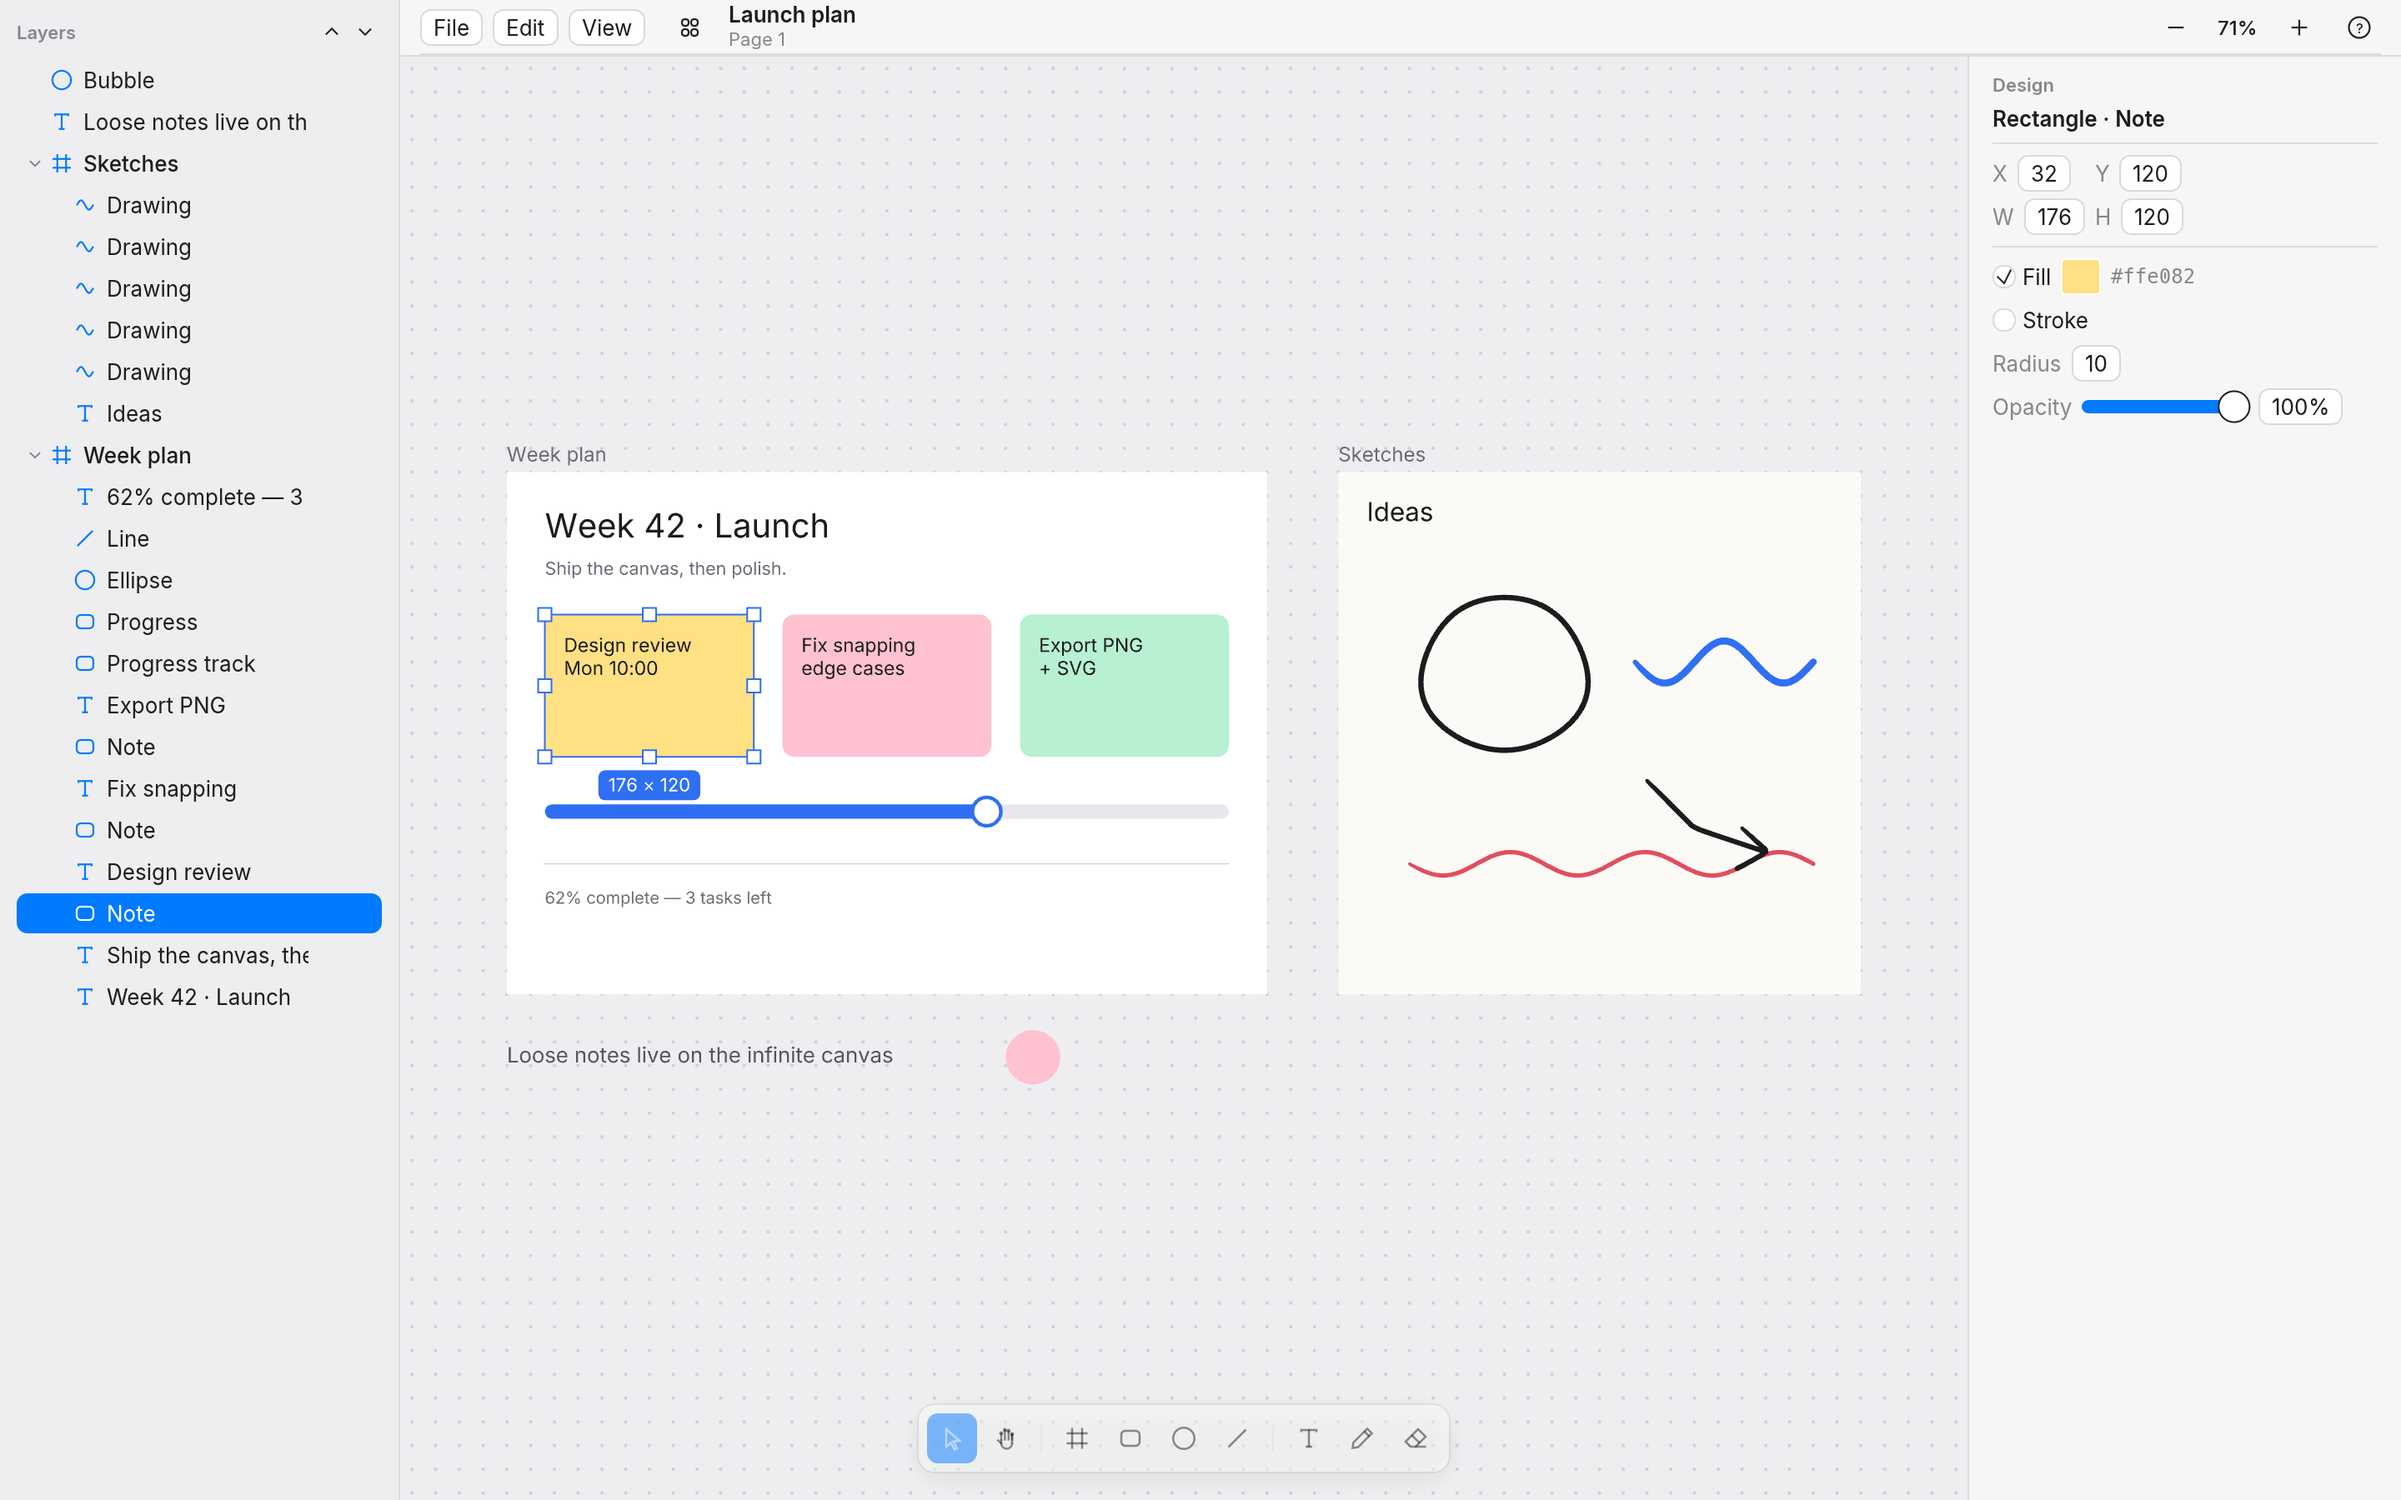
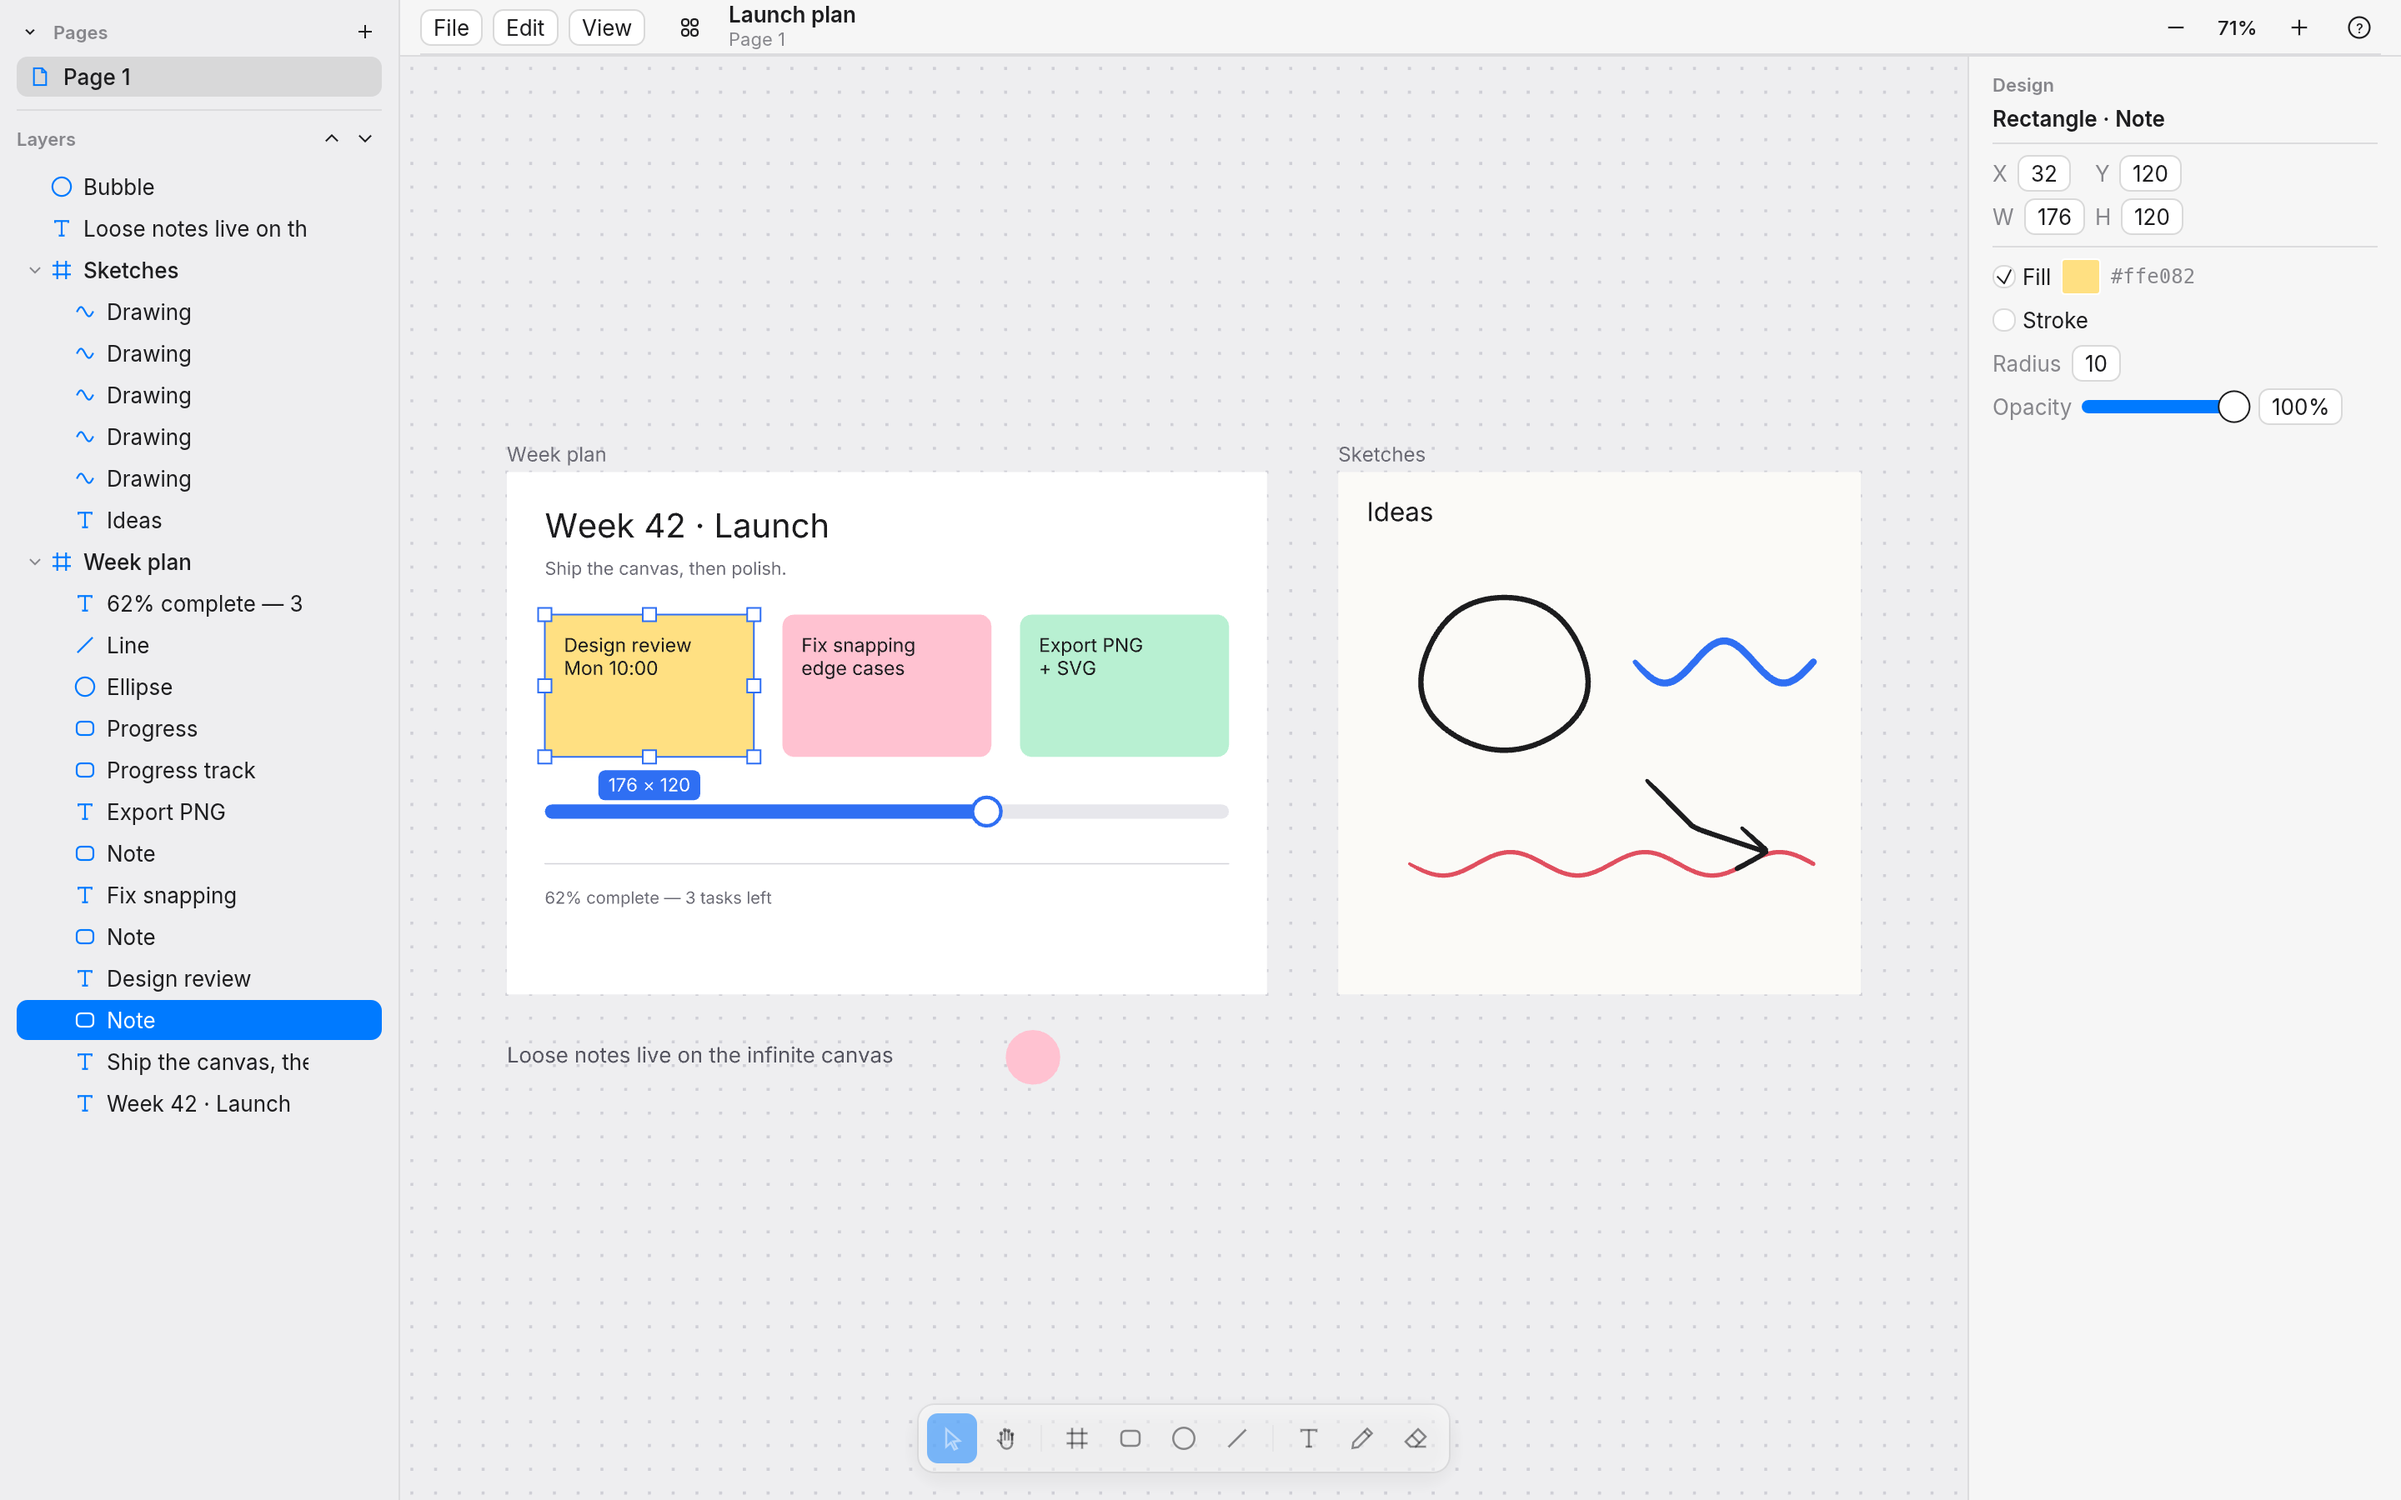
feat(pages): multiple pages per project with their own canvas, history and camera
Pages panel in the sidebar (add, switch, rename, duplicate, delete, drag-reorder),
per-page undo and view, paste on another page keeps positions.

Changed region(s): [[0.0, 0.0, 0.1562, 0.7467]]

diff --git a/src/ui/pages.rs b/src/ui/pages.rs
@@ -1,0 +1,172 @@
+//! The pages list at the top of the left sidebar (as in Figma): switch, add, rename,
+//! duplicate, delete and drag to reorder.
+
+use super::{UiState, section};
+use crate::editor::Editor;
+use crate::theme::{self, Icon};
+use egui::{Color32, RichText, Ui};
+
+#[derive(Default)]
+pub struct PagesUi {
+    pub collapsed: bool,
+    pub renaming: Option<(usize, String)>,
+    /// Row being dragged, and the index it would drop at.
+    drag: Option<(usize, usize)>,
+}
+
+const ROW_H: f32 = 24.0;
+
+pub fn panel(ui: &mut Ui, ed: &mut Editor, st: &mut UiState) {
+    let p = theme::pal(ui);
+    ui.horizontal(|ui| {
+        let chevron = if st.pages.collapsed {
+            Icon::ChevronRight
+        } else {
+            Icon::ChevronDown
+        };
+        if theme::icon_button(ui, chevron, 16.0, false).clicked() {
+            st.pages.collapsed = !st.pages.collapsed;
+        }
+        section(ui, "Pages");
+        if st.pages.collapsed {
+            ui.label(
+                RichText::new(ed.page_name())
+                    .size(theme::SECONDARY)
+                    .color(p.secondary),
+            );
+        }
+        ui.with_layout(egui::Layout::right_to_left(egui::Align::Center), |ui| {
+            if theme::icon_button(ui, Icon::Plus, 20.0, false)
+                .on_hover_text("Add page")
+                .clicked()
+            {
+                ed.add_page();
+            }
+        });
+    });
+    if st.pages.collapsed {
+        return;
+    }
+    let n = ed.pages.len();
+    let max_h = (n as f32 * (ROW_H + 1.0)).min(6.5 * (ROW_H + 1.0));
+    egui::ScrollArea::vertical()
+        .id_salt("pages")
+        .max_height(max_h)
+        .auto_shrink([false, true])
+        .show(ui, |ui| {
+            ui.spacing_mut().item_spacing.y = 1.0;
+            let top = ui.cursor().top();
+            for i in 0..n {
+                page_row(ui, ed, st, i, top);
+            }
+        });
+    // Drop: reorder.
+    if let Some((from, to)) = st.pages.drag
+        && ui.input(|i| i.pointer.any_released())
+    {
+        st.pages.drag = None;
+        ed.move_page(from, to.min(n - 1));
+    }
+}
+
+fn page_row(ui: &mut Ui, ed: &mut Editor, st: &mut UiState, i: usize, top: f32) {
+    let p = theme::pal(ui);
+    let active = i == ed.active_page;
+    let (row, resp) = ui.allocate_exact_size(
+        egui::vec2(ui.available_width(), ROW_H),
+        egui::Sense::click_and_drag(),
+    );
+    if active {
+        ui.painter().rect_filled(row, 6.0, p.pressed);
+    } else if resp.hovered() {
+        ui.painter().rect_filled(row, 6.0, p.hover);
+    }
+    // Drop indicator while dragging.
+    if let Some((from, to)) = st.pages.drag
+        && from != to
+        && to == i
+    {
+        let y = if to > from { row.bottom() } else { row.top() };
+        ui.painter().hline(
+            row.x_range(),
+            y,
+            egui::Stroke::new(2.0, theme::accent()),
+        );
+    }
+    theme::paint_icon(
+        ui.painter(),
+        egui::Rect::from_center_size(
+            egui::pos2(row.left() + 14.0, row.center().y),
+            egui::vec2(13.0, 13.0),
+        ),
+        Icon::Page,
+        if active { theme::accent() } else { p.secondary },
+    );
+    let name_rect = egui::Rect::from_min_max(
+        egui::pos2(row.left() + 28.0, row.top()),
+        egui::pos2(row.right() - 4.0, row.bottom()),
+    );
+    let renaming = st.pages.renaming.as_ref().is_some_and(|(r, _)| *r == i);
+    if renaming {
+        let (_, name) = st.pages.renaming.as_mut().unwrap();
+        let r = ui.put(
+            name_rect.shrink2(egui::vec2(0.0, 2.0)),
+            egui::TextEdit::singleline(name),
+        );
+        r.request_focus();
+        if r.lost_focus() {
+            let (idx, name) = st.pages.renaming.take().unwrap();
+            if !ui.input(|i| i.key_pressed(egui::Key::Escape)) {
+                ed.rename_page(idx, &name);
+            }
+        }
+    } else {
+        let font = if active {
+            theme::medium(theme::BODY)
+        } else {
+            egui::FontId::proportional(theme::BODY)
+        };
+        let g = ui
+            .painter()
+            .layout(ed.pages[i].name.clone(), font, p.text, f32::INFINITY);
+        ui.painter()
+            .with_clip_rect(name_rect.intersect(ui.clip_rect()))
+            .galley(
+                egui::pos2(name_rect.left(), row.center().y - g.size().y / 2.0),
+                g,
+                Color32::PLACEHOLDER,
+            );
+    }
+    if resp.double_clicked() {
+        st.pages.renaming = Some((i, ed.pages[i].name.clone()));
+    } else if resp.clicked() {
+        ed.switch_page(i);
+    }
+    if resp.drag_started() {
+        st.pages.drag = Some((i, i));
+    }
+    if resp.dragged()
+        && let Some(pos) = ui.input(|inp| inp.pointer.interact_pos())
+        && let Some((from, _)) = st.pages.drag
+    {
+        let to = ((pos.y - top) / (ROW_H + 1.0)).floor().max(0.0) as usize;
+        st.pages.drag = Some((from, to.min(ed.pages.len() - 1)));
+    }
+    resp.context_menu(|ui| {
+        if ui.button("Rename").clicked() {
+            st.pages.renaming = Some((i, ed.pages[i].name.clone()));
+            ui.close();
+        }
+        if ui.button("Duplicate").clicked() {
+            ed.duplicate_page(i);
+            ui.close();
+        }
+        if ui
+            .add_enabled(ed.pages.len() > 1, egui::Button::new("Delete"))
+            .clicked()
+        {
+            ed.delete_page(i);
+            ui.close();
+        }
+    });
+}

diff --git a/src/ui/mod.rs b/src/ui/mod.rs
@@ -2,6 +2,7 @@
 //! projects home screen.
 
 pub mod home;
+pub mod pages;
 
 use crate::editor::shortcuts::{self, Action};
 use crate::editor::{Editor, Tool};
@@ -29,6 +30,7 @@ pub struct UiState {
     pub project_name: String,
     /// Autosave state for the toolbar subtitle, e.g. "Saved" or "Saving…".
     pub save_state: String,
+    pub pages: pages::PagesUi,
 }
 
 pub fn setup_style(ctx: &egui::Context) {
@@ -44,7 +46,7 @@ fn from32(c: Color32) -> Color {
 }
 
 /// Section header, as in a macOS sidebar or inspector: 11pt semibold, secondary colour.
-fn section(ui: &mut Ui, title: &str) {
+pub(crate) fn section(ui: &mut Ui, title: &str) {
     ui.label(
         RichText::new(title)
             .font(theme::semibold(theme::SECONDARY))
@@ -278,6 +280,15 @@ fn export_options(ui: &mut Ui, st: &mut UiState) {
 }
 
 fn layers(ui: &mut Ui, ed: &mut Editor, st: &mut UiState) {
+    pages::panel(ui, ed, st);
+    ui.add_space(4.0);
+    let r = ui.available_rect_before_wrap();
+    ui.painter().hline(
+        r.x_range(),
+        r.top(),
+        egui::Stroke::new(1.0, theme::pal(ui).separator),
+    );
+    ui.add_space(6.0);
     ui.horizontal(|ui| {
         section(ui, "Layers");
         ui.with_layout(egui::Layout::right_to_left(egui::Align::Center), |ui| {
@@ -596,11 +607,12 @@ fn design(ui: &mut Ui, ed: &mut Editor, _st: &mut UiState) {
             }
         });
         ui.separator();
-        ui.label(title_text("Document"));
-        let mut name = ed.doc.name.clone();
-        if ui.text_edit_singleline(&mut name).changed() {
-            ed.doc.name = name;
-            ed.revision += 1;
+        ui.label(title_text("Page"));
+        let mut name = ed.page_name().to_string();
+        let r = ui.text_edit_singleline(&mut name);
+        if r.changed() {
+            let i = ed.active_page;
+            ed.rename_page(i, &name);
         }
         ui.label(format!("{} layers", ed.doc.nodes.len()));
         return;

diff --git a/tests/projects.rs b/tests/projects.rs
@@ -276,3 +276,36 @@ fn m2_copy_paste_between_pages_and_projects() {
     assert_eq!(ed.doc.nodes.len(), 1);
     std::fs::remove_dir_all(&store.root).ok();
 }
+
+#[test]
+fn m2_pages_panel_screenshot() {
+    let Some(g) = gpu() else { return };
+    let page = |name: &str, doc: paper_rs::model::Document| PageData {
+        id: paper_rs::project::new_id(),
+        name: name.into(),
+        doc,
+        camera: None,
+    };
+    let mut ed = Editor::default();
+    ed.open_pages(
+        vec![
+            page("Launch plan", demo::showcase().doc),
+            page("Moodboard", demo::moodboard().doc),
+            page("Flows", demo::flow().doc),
+            page("Archive", paper_rs::model::Document::default()),
+        ],
+        None,
+    );
+    ed.switch_page(2);
+    assert_eq!(ed.page_name(), "Flows");
+    let mut st = UiState {
+        project_name: "Q4 launch".into(),
+        save_state: "Saved".into(),
+        ..Default::default()
+    };
+    let img = frame::capture(g, &mut ed, &mut st, [1440.0, 900.0], 2.0, |ed| ed.zoom_to_fit());
+    img.save(shot("milestone2_pages.png")).unwrap();
+    // The canvas shows the Flows page: its blue buttons are on screen.
+    let blue = Color::rgb(0x2f, 0x6f, 0xf3);
+    assert!(count(&img, Rect::new(260.0, 60.0, 900.0, 800.0), |p| close(p, blue, 12)) > 500);
+}

diff --git a/src/editor/pages.rs b/src/editor/pages.rs
@@ -50,7 +50,11 @@ impl Editor {
         let clipboard_roots = std::mem::take(&mut self.clipboard_roots);
         let clipboard_page = self.clipboard_page.take();
         let first = pages[active_i].clone();
-        self.load(first.doc, first.camera, None);
+        let doc = Document {
+            name: first.name.clone(),
+            ..first.doc
+        };
+        self.load(doc, first.camera, None);
         self.clipboard = clipboard;
         self.clipboard_roots = clipboard_roots;
         self.clipboard_page = clipboard_page;

diff --git a/PROGRESS.md b/PROGRESS.md
@@ -13,11 +13,21 @@ are credited in `THIRD_PARTY.md`.
 |---|---|---|
 | Analysis notes | ✅ done | `analysis/FIGMA_NOTES.md`, `analysis/EXCALIDRAW_NOTES.md`, fixtures in `tests/fixtures/excalidraw/` |
 | P1: local projects, home screen, autosave, atomic writes, versioned format | ✅ done | `src/project/`, `src/session.rs`, `src/io/atomic.rs`, `tests/projects.rs::m1_*`, `milestone1_home.png`, `milestone1_trash.png` |
-| P2: multiple pages, infinite canvas per page | ⏳ | |
+| P2: multiple pages, infinite canvas per page | ✅ done | `src/editor/pages.rs`, `src/ui/pages.rs`, `tests/projects.rs::m2_*`, `milestone2_pages.png` |
 | P3: Figma core | ⏳ | |
 | P4: Excalidraw core | ⏳ | |
 | P5: inspector, layers drag-reorder, command palette, shortcuts | ⏳ | |
 | P6: import/export (PNG/SVG/PDF, .excalidraw, SVG), cross-project paste | ⏳ | |
+
+### P2 notes
+
+* Each page is its own infinite canvas with its own undo history, selection and camera. The
+  active page lives in the editor; the others are parked in their slot (`PageStash`).
+* Pages panel at the top of the left sidebar: click to switch, + to add, double-click to rename,
+  right-click for Rename / Duplicate / Delete, drag to reorder. The last page can't be deleted.
+* Paste on another page (or in another project) keeps the original position; paste on the same
+  page offsets by 16 px.
+* Deleting a page isn't undoable (the page file is removed at the next save).
 
 ### P1 notes
 

diff --git a/README.md b/README.md
@@ -24,6 +24,11 @@ and one JSON file per page in `pages/`. Work is autosaved about a second after e
 crash-safe atomic writes; files are versioned and older versions migrate on load. Set
 `PAPER_RS_HOME` to use another folder.
 
+A project has any number of **pages** (Pages list at the top of the left sidebar: + to add,
+double-click to rename, right-click to duplicate or delete, drag to reorder). Each page is its
+own infinite canvas with its own undo history and view. Copy and paste works between pages and
+between projects.
+
 ## Build and run
 
 You need Rust 1.95 or newer (`rust-version` in `Cargo.toml`; the latest stable is recommended). Install it with [rustup](https://rustup.rs).
